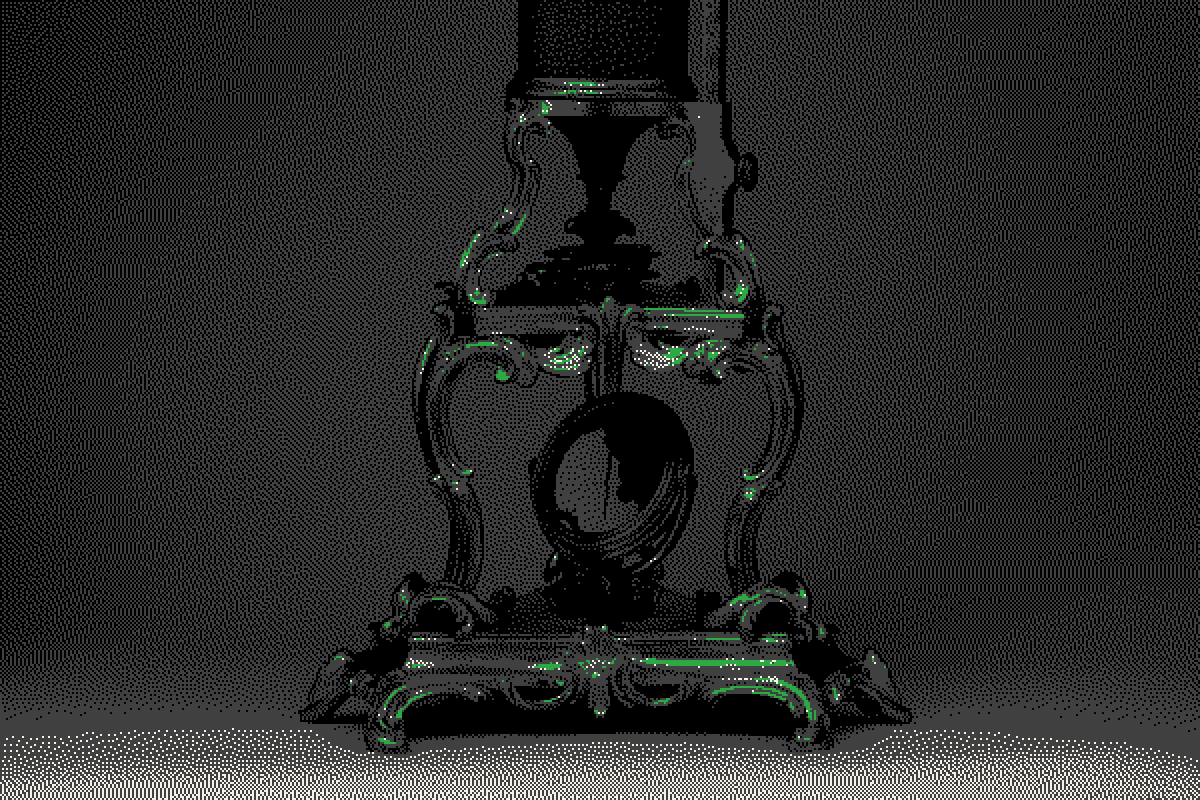
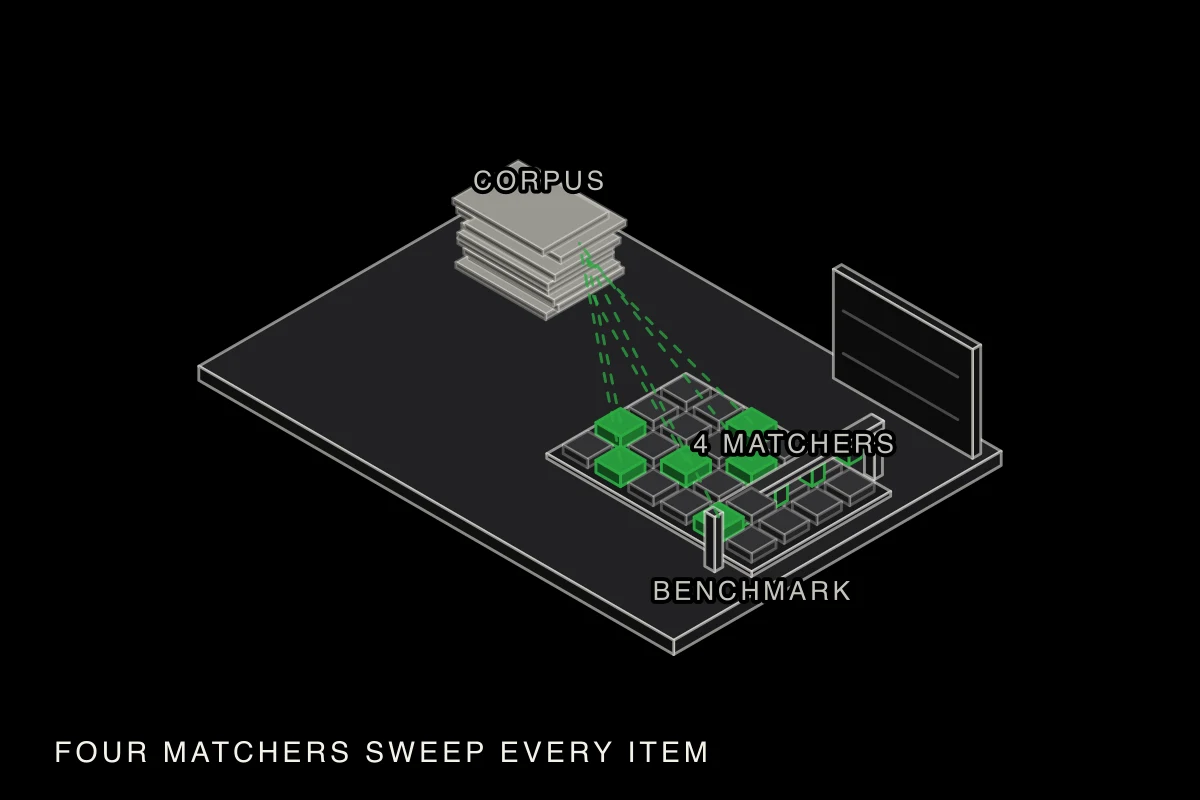
EvalGuard scene, and the scenes autoplay on the home page
- EvalGuard storyboard: documents drop into a corpus stack and a benchmark tray of items pops
  up; a gantry with four matcher heads sweeps the tray and lights the items the corpus leaks,
  each with a dashed evidence line back to its document; the panel's ρ and Δ bars fill; then
  the hits pulse with their evidence. Its still replaces the dithered microscope cover.
- Home: the projects section's lead (EvalGuard) and rows (Planet X) carry `scene` ids and get a
  `canvas.iso`; HomeMotion and the artifact's home bootstrap start the players. Canvases under
  220px wide play without labels and caption (the rows' 96px covers).

diff --git a/src/components/sheng/iso-engine.ts b/src/components/sheng/iso-engine.ts
@@ -188,8 +188,8 @@ interface Camera {
   oy: number;
 }
 
-/** Fits the scene's bounds into the canvas, leaving a band at the bottom for the caption. */
-function fitCamera(scene: Scene, w: number, h: number): Camera {
+/** Fits the scene's bounds into the canvas, leaving a band at the bottom for the caption (none when compact). */
+function fitCamera(scene: Scene, w: number, h: number, compact: boolean): Camera {
   const { min, max } = scene.bounds;
   let x0 = Infinity;
   let y0 = Infinity;
@@ -208,7 +208,7 @@ function fitCamera(scene: Scene, w: number, h: number): Camera {
   }
   const padX = 0.04 * w;
   const padTop = 0.05 * h;
-  const padBottom = 0.17 * h;
+  const padBottom = (compact ? 0.06 : 0.17) * h;
   const scale = Math.min((w - 2 * padX) / (x1 - x0), (h - padTop - padBottom) / (y1 - y0));
   return {
     scale,
@@ -360,10 +360,14 @@ export function captionAt(scene: Scene, t: number): string {
   return caption;
 }
 
+/** Below this width (the home page's rows) the scene plays without its labels and caption. */
+const COMPACT_WIDTH = 220;
+
 /** Draws the scene at time `t` into a `w`×`h` canvas (CSS pixels). `caption` overrides the beat's text (scrambles). */
 export function drawFrame(painter: Painter, scene: Scene, w: number, h: number, t: number, caption?: string): void {
   painter.clear(w, h, BG);
-  const cam = fitCamera(scene, w, h);
+  const compact = w < COMPACT_WIDTH;
+  const cam = fitCamera(scene, w, h, compact);
   const frame = scene.frame(t);
   const fontPx = Math.min(30, Math.max(9, w / 42));
   const lineW = Math.max(1, w / 420);
@@ -401,6 +405,7 @@ export function drawFrame(painter: Painter, scene: Scene, w: number, h: number, 
   }
   items.sort((a, b) => a.depth - b.depth);
   for (const item of items) item.draw();
+  if (compact) return;
   const labelPx = fontPx * 0.92;
   for (const label of frame.labels) {
     const [x, y] = toScreen(cam, label.at);
@@ -678,5 +683,107 @@ const planetX: Scene = {
   },
 };
 
+
+/**
+ * EvalGuard: a corpus and a benchmark. Four matchers sweep every benchmark item and light the ones the corpus already
+ * contains, each with a line back to the document that leaks it; the panel reports the two numbers that come out.
+ */
+const DOC: Rgb = [168, 166, 158];
+const TILE: Rgb = [54, 54, 58];
+const BAR: Rgb = [150, 148, 142];
+const DOCS = 10;
+const DOC_STEP = 0.15;
+const COLS = 6;
+const ROWS = 4;
+/** Benchmark items the corpus leaks (row-major index), and the document each one traces back to. */
+const HITS = [2, 5, 9, 12, 14, 19, 22];
+const hitDoc = (i: number): number => (i * 3) % DOCS;
+const docAt = (i: number): Vec3 => [-3.6 + 0.3 * (hash2(i, 3.1) - 0.5), -2.1 + 0.3 * (hash2(i, 5.7) - 0.5), 0.3 + i * DOC_STEP];
+const tileAt = (i: number): Point => [0.9 + (i % COLS) * 0.8, -1.2 + Math.floor(i / COLS) * 0.8];
+
+const evalGuard: Scene = {
+  id: "eval-guard",
+  duration: 14,
+  poster: 6.2,
+  bounds: { min: [-6, -4.2, 0], max: [6, 4.2, 3] },
+  beats: [
+    { at: 0, caption: "A CORPUS AND A BENCHMARK" },
+    { at: 3.4, caption: "FOUR MATCHERS SWEEP EVERY ITEM" },
+    { at: 8, caption: "TWO NUMBERS OUT: RATE ρ AND INFLATION Δ" },
+    { at: 11, caption: "EACH HIT WITH ITS EVIDENCE · NEVER FABRICATED" },
+  ],
+  frame(t) {
+    const shapes: Shape[] = [];
+    const lines: Line3[] = [];
+    const marks: Mark[] = [];
+    const labels: Label[] = [];
+    shapes.push(box(-5.8, -4, 0, 5.8, 4, 0.3, SLAB));
+
+    // the corpus: documents dropping onto a stack
+    for (let i = 0; i < DOCS; i++) {
+      const a = easeOut(span(t, 0.15 + i * 0.2, 0.55 + i * 0.2));
+      if (a <= 0) continue;
+      const [x, y, z] = docAt(i);
+      const lift = (1 - a) * 1.2;
+      shapes.push(box(x - 1.1, y - 0.8, z + lift, x + 1.1, y + 0.8, z + lift + 0.12, DOC, EDGE_SOFT));
+    }
+    if (t >= 2.4) labels.push({ at: [-3.6, -2.1, 0.3 + DOCS * DOC_STEP + 0.1], text: "CORPUS", dy: -6 });
+
+    // the benchmark: a tray of items popping into place
+    shapes.push(box(0.4, -1.7, 0.3, 5.4, 1.7, 0.4, DARK));
+    if (t >= 1.2) labels.push({ at: [5.4, 1.7, 0.4], text: "BENCHMARK", dy: 8 });
+    const sweeping = t >= 3.4;
+    const gx = lerp(0.3, 5.5, easeInOut(span(t, 3.4, 7.6)));
+    const pulse = t >= 11 ? 0.5 + 0.5 * Math.sin((t - 11) * 3) : 1;
+    for (let i = 0; i < COLS * ROWS; i++) {
+      const [tx, ty] = tileAt(i);
+      const a = easeOut(span(t, 0.9 + ((i % COLS) + Math.floor(i / COLS)) * 0.1, 1.25 + ((i % COLS) + Math.floor(i / COLS)) * 0.1));
+      if (a <= 0) continue;
+      const lit = HITS.includes(i) && sweeping ? clamp01((gx - tx + 0.1) / 0.35) : 0;
+      const s = 0.3 * a;
+      const h = 0.18 * a + 0.08 * lit;
+      shapes.push(box(tx - s, ty - s, 0.4, tx + s, ty + s, 0.4 + h, mix(TILE, GREEN, lit * (0.7 + 0.3 * pulse)), lit > 0.5 ? GREEN_EDGE : EDGE_SOFT));
+      if (lit > 0) {
+        // the evidence trail: the item back to the document that leaks it
+        const [dx, dy, dz] = docAt(hitDoc(i));
+        lines.push({ pts: [[tx, ty, 0.4 + h], [dx + 1.1, dy, dz + 0.06]], color: `rgba(44,169,66,${0.75 * lit * (0.6 + 0.4 * pulse)})`, dash: [3, 4], depth: 100 });
+      }
+    }
+
+    // the gantry: four matcher heads on a bar that sweeps the tray, then parks at its end
+    if (sweeping) {
+      const bar = box(gx - 0.15, -2.05, 1.3, gx + 0.15, 2.05, 1.45, SLATE);
+      shapes.push(box(gx - 0.12, -2.05, 0.3, gx + 0.12, -1.85, 1.45, SLATE));
+      for (const hy of [-1.35, -0.45, 0.45, 1.35]) {
+        const head = box(gx - 0.15, hy - 0.15, 0.95, gx + 0.15, hy + 0.15, 1.3, SLATE, GREEN_EDGE);
+        head.depth = bar.depth - 0.01; // hangs under the bar, which hides its top
+        shapes.push(head);
+      }
+      shapes.push(bar);
+      shapes.push(box(gx - 0.12, 1.85, 0.3, gx + 0.12, 2.05, 1.45, SLATE));
+      if (t < 8) labels.push({ at: [gx, 0, 1.55], text: "4 MATCHERS", dy: -6 });
+    }
+
+    // the panel: contamination rate and score inflation
+    shapes.push(box(2.2, -3.7, 0.3, 5.6, -3.5, 2.6, DARK));
+    lines.push({ pts: [[2.5, -3.44, 1.9], [5.3, -3.44, 1.9]], color: EDGE_SOFT, depth: 100 });
+    lines.push({ pts: [[2.5, -3.44, 1], [5.3, -3.44, 1]], color: EDGE_SOFT, depth: 100 });
+    const rho = 0.55 * easeOut(span(t, 8.2, 9.6));
+    const delta = 0.35 * easeOut(span(t, 8.6, 10));
+    if (rho > 0) shapes.push(box(2.5, -3.5, 1.9, 2.5 + 2.8 * rho, -3.38, 2.15, GREEN, GREEN_EDGE));
+    if (delta > 0) shapes.push(box(2.5, -3.5, 1, 2.5 + 2.8 * delta, -3.38, 1.25, BAR, EDGE_SOFT));
+    if (t >= 8.2) {
+      labels.push({ at: [2.5, -3.4, 2.02], text: "ρ", dx: -4, align: "right" });
+      labels.push({ at: [2.5, -3.4, 1.12], text: "Δ", dx: -4, align: "right" });
+    }
+    if (t >= 11) {
+      const [tx, ty] = tileAt(HITS[0]);
+      const [dx, dy, dz] = docAt(hitDoc(HITS[0]));
+      labels.push({ at: [(tx + dx + 1.1) / 2, (ty + dy) / 2, (0.66 + dz) / 2], text: "EVIDENCE", dy: -8, color: GREEN_LABEL });
+    }
+    return { shapes, lines, marks, labels };
+  },
+};
+
 /** Every scene by id; a project's `cover.scene` names one. */
-export const SCENES: Record<string, Scene> = { [planetX.id]: planetX };
+export const SCENES: Record<string, Scene> = { [planetX.id]: planetX, [evalGuard.id]: evalGuard };

diff --git a/src/components/sheng/ProjectsSection.tsx b/src/components/sheng/ProjectsSection.tsx
@@ -1,4 +1,5 @@
 /* eslint-disable @next/next/no-img-element -- each cover has a canvas laid over it that dissolves on scroll; plain <img> matches the source */
+// A cover with a `scene` also gets a `canvas.iso`: its animated isometric scene (iso-engine.ts) plays over the still.
 import { projects } from "@/content/home";
 import { ArrowRightIcon } from "./icons";
 import { external, Words } from "./markup";
@@ -24,8 +25,9 @@ export function ProjectsSection() {
 
       <div className="guides-list">
         <SmartLink className="lead" href={lead.href}>
-          <span className="cover tone-original">
+          <span className="cover tone-original" data-scene={lead.scene}>
             <img src={lead.cover} width={1200} height={800} alt="" loading="lazy" decoding="async" />
+            {lead.scene ? <canvas className="iso" aria-hidden="true" /> : null}
             <canvas aria-hidden="true" />
           </span>
           <span className="g-title">{lead.title}</span>
@@ -34,8 +36,9 @@ export function ProjectsSection() {
         <div className="rows">
           {rows.map((row) => (
             <SmartLink className="row" href={row.href} key={row.href}>
-              <span className="cover tone-original">
+              <span className="cover tone-original" data-scene={row.scene}>
                 <img src={row.cover} width={300} height={200} alt="" loading="lazy" decoding="async" />
+                {row.scene ? <canvas className="iso" aria-hidden="true" /> : null}
                 <canvas aria-hidden="true" />
               </span>
               <span className="row-text">

diff --git a/src/content/home.ts b/src/content/home.ts
@@ -127,6 +127,8 @@ export const experience = {
 export interface ProjectCard {
   href: string;
   cover: string;
+  /** an animated scene (iso-engine.ts) that plays over the cover where JS runs */
+  scene?: string;
   title: string;
   meta: string;
 }
@@ -138,11 +140,12 @@ export const projects = {
   lead: {
     href: `/project/eval-guard`,
     cover: "/images/projects/eval-guard.webp",
+    scene: "eval-guard",
     title: "EvalGuard: a contamination auditor for LLM evaluations",
     meta: "34 passing tests",
   } satisfies ProjectCard,
   rows: [
-    { href: `/project/planet-x`, cover: "/images/projects/planet-x.webp", title: "Planet X: hunting a distant planet's parallax in NASA's SPHEREx sky survey", meta: "NASA Space Apps 2026" },
+    { href: `/project/planet-x`, cover: "/images/projects/planet-x.webp", scene: "planet-x", title: "Planet X: hunting a distant planet's parallax in NASA's SPHEREx sky survey", meta: "NASA Space Apps 2026" },
     { href: `/project/video-to-text`, cover: "/images/projects/video-to-text.webp", title: "Video-to-Text MCP server: let Claude watch video without blowing its context", meta: "~150k → ~5k tokens" },
     { href: `/project/school-mcp`, cover: "/images/projects/school-mcp.webp", title: "StudentVue MCP server: your gradebook in natural language", meta: "19 tools" },
     { href: `/project/autonomous-researcher`, cover: "/images/projects/autonomous-researcher.webp", title: "Autonomous Research Agent: plans, searches, checks, and writes, all locally", meta: "no API keys" },

diff --git a/src/components/sheng/HomeMotion.tsx b/src/components/sheng/HomeMotion.tsx
@@ -4,6 +4,7 @@ import { useEffect, useLayoutEffect } from "react";
 import { createHeroNote, postNote, scrollToTopAfterNavigation } from "./contact";
 import { HeroEngine } from "./hero-engine";
 import { initExperience, wireContactLinks } from "./home-extras";
+import { initIsoScenes } from "./iso-engine";
 import { initRestEffects } from "./rest-effects";
 import { footer, hero } from "@/content/home";
 
@@ -35,6 +36,7 @@ export function HomeMotion({ mono }: { mono: string }) {
     const disposeRest = initRestEffects(restEl, mono, { markText: footer.mark });
     const disposeExperience = initExperience(home, mono);
     const disposeContact = wireContactLinks(document.body, "#idea-code");
+    const disposeScenes = initIsoScenes(home, mono);
 
     return () => {
       engine.destroy();
@@ -42,6 +44,7 @@ export function HomeMotion({ mono }: { mono: string }) {
       disposeRest();
       disposeExperience();
       disposeContact();
+      disposeScenes();
     };
   }, [mono]);
 

diff --git a/src/content/projects.ts b/src/content/projects.ts
@@ -49,7 +49,8 @@ export const projects: Project[] = [
     "reportUrl": "https://docs.google.com/document/d/1AtuTdvSL2f_m_dmEvNJMM6SG9Dwm2145OunH7kEnN2c/edit?usp=sharing",
     "cover": {
       "src": "/images/projects/eval-guard.webp",
-      "tone": "original"
+      "tone": "original",
+      "scene": "eval-guard"
     },
     "features": [],
     "diagrams": [
